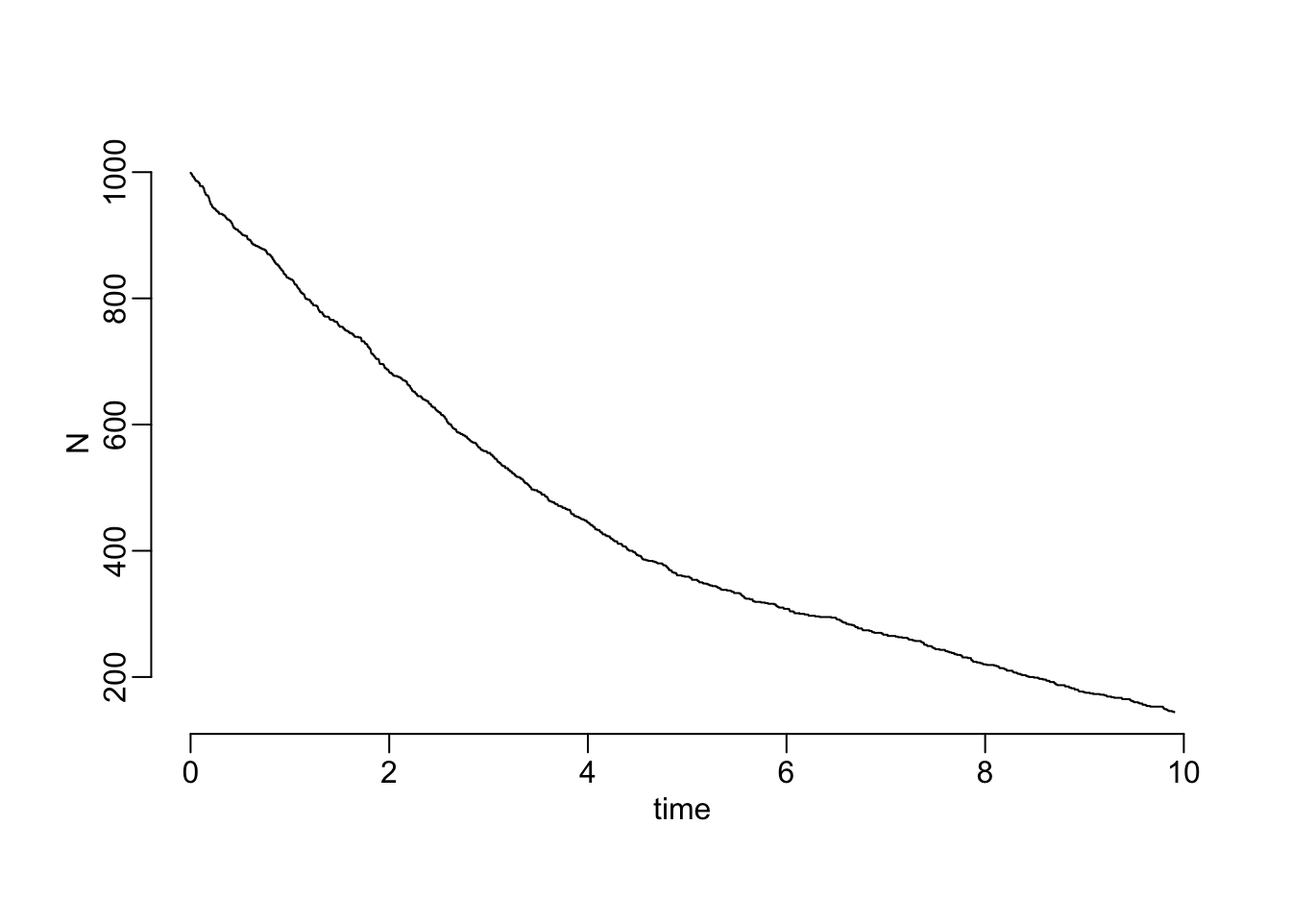
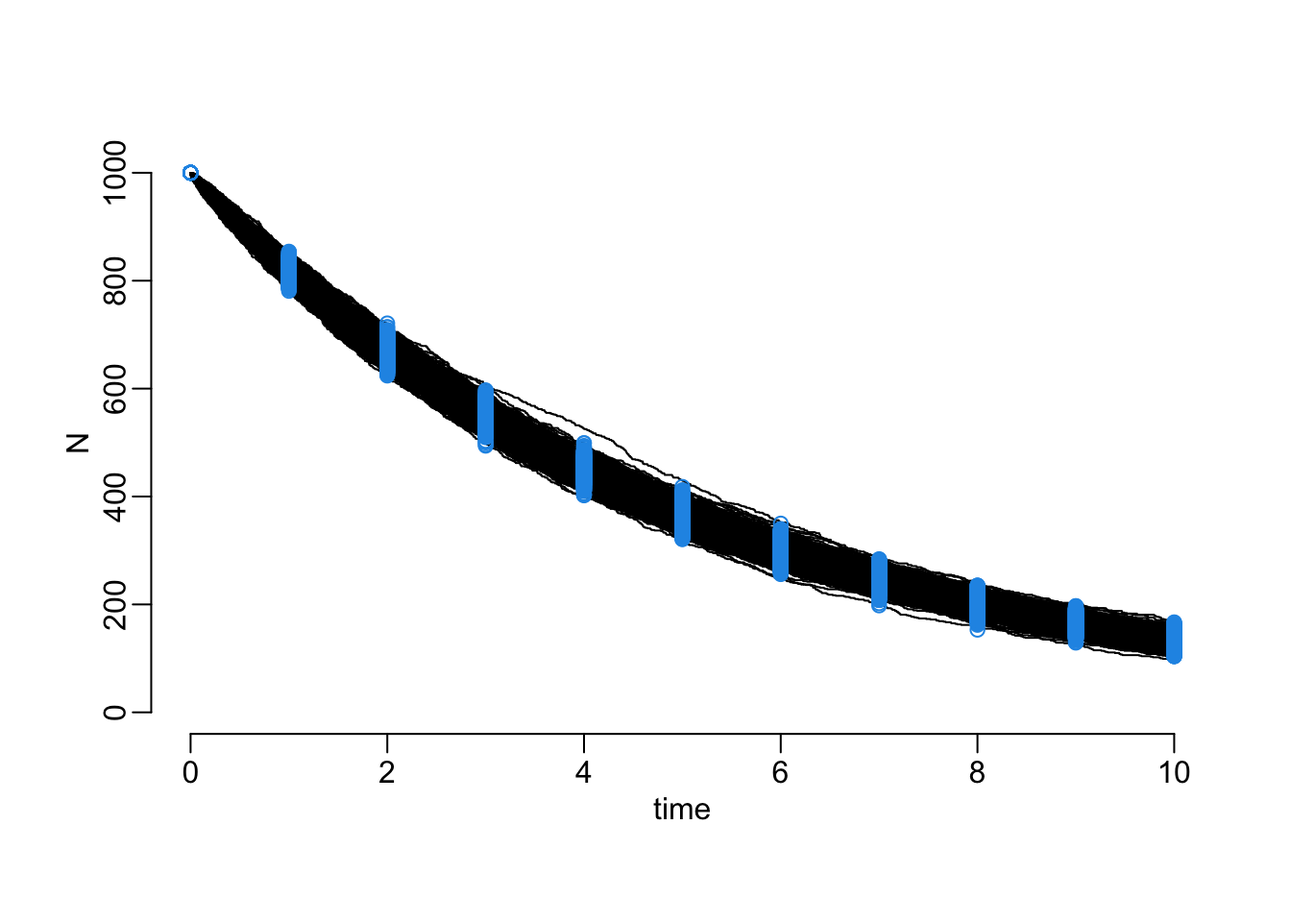
Starting birth process

diff --git a/explorations 2.html b/explorations 2.html
@@ -153,21 +153,21 @@ window.Quarto = {
 <section id="continuous-time-deterministic" class="level3">
 <h3 class="anchored" data-anchor-id="continuous-time-deterministic">Continuous-time deterministic</h3>
 <p><span class="math display">\[
-\frac{dN}{dt} = -rN
+\frac{dN}{dt} = -r_cN
 \]</span></p>
 <div class="cell">
-<div class="sourceCode cell-code" id="cb6"><pre class="sourceCode r code-with-copy"><code class="sourceCode r"><span id="cb6-1"><a href="#cb6-1" aria-hidden="true" tabindex="-1"></a>continuous_deterministic <span class="ot">&lt;-</span> <span class="cf">function</span>(N0, r, times) {</span>
+<div class="sourceCode cell-code" id="cb6"><pre class="sourceCode r code-with-copy"><code class="sourceCode r"><span id="cb6-1"><a href="#cb6-1" aria-hidden="true" tabindex="-1"></a>continuous_deterministic <span class="ot">&lt;-</span> <span class="cf">function</span>(N0, rc, times) {</span>
 <span id="cb6-2"><a href="#cb6-2" aria-hidden="true" tabindex="-1"></a>  tibble<span class="sc">::</span><span class="fu">as_tibble</span>(</span>
 <span id="cb6-3"><a href="#cb6-3" aria-hidden="true" tabindex="-1"></a>    <span class="fu">as.data.frame</span>(</span>
 <span id="cb6-4"><a href="#cb6-4" aria-hidden="true" tabindex="-1"></a>      <span class="fu">ode</span>(<span class="fu">c</span>(<span class="at">N =</span> N0),</span>
 <span id="cb6-5"><a href="#cb6-5" aria-hidden="true" tabindex="-1"></a>          times,</span>
 <span id="cb6-6"><a href="#cb6-6" aria-hidden="true" tabindex="-1"></a>          <span class="cf">function</span>(time, variables, parameters) {</span>
 <span id="cb6-7"><a href="#cb6-7" aria-hidden="true" tabindex="-1"></a>            <span class="fu">with</span>(<span class="fu">as.list</span>(<span class="fu">c</span>(variables, parameters)), {</span>
-<span id="cb6-8"><a href="#cb6-8" aria-hidden="true" tabindex="-1"></a>              dN <span class="ot">&lt;-</span> r <span class="sc">*</span> N</span>
+<span id="cb6-8"><a href="#cb6-8" aria-hidden="true" tabindex="-1"></a>              dN <span class="ot">&lt;-</span> rc <span class="sc">*</span> N</span>
 <span id="cb6-9"><a href="#cb6-9" aria-hidden="true" tabindex="-1"></a>              <span class="fu">list</span>(dN)</span>
 <span id="cb6-10"><a href="#cb6-10" aria-hidden="true" tabindex="-1"></a>            })</span>
 <span id="cb6-11"><a href="#cb6-11" aria-hidden="true" tabindex="-1"></a>          },</span>
-<span id="cb6-12"><a href="#cb6-12" aria-hidden="true" tabindex="-1"></a>          <span class="fu">c</span>(<span class="at">r =</span> r))</span>
+<span id="cb6-12"><a href="#cb6-12" aria-hidden="true" tabindex="-1"></a>          <span class="fu">c</span>(<span class="at">rc =</span> rc))</span>
 <span id="cb6-13"><a href="#cb6-13" aria-hidden="true" tabindex="-1"></a>    )</span>
 <span id="cb6-14"><a href="#cb6-14" aria-hidden="true" tabindex="-1"></a>  )</span>
 <span id="cb6-15"><a href="#cb6-15" aria-hidden="true" tabindex="-1"></a>}</span></code><button title="Copy to Clipboard" class="code-copy-button"><i class="bi"></i></button></pre></div>
@@ -187,26 +187,31 @@ window.Quarto = {
 <section id="discrete-time-deterministic" class="level3">
 <h3 class="anchored" data-anchor-id="discrete-time-deterministic">Discrete-time deterministic</h3>
 <p><span class="math display">\[
+N_{t+1} = r_d N_t
+\]</span></p>
+<p>with</p>
+<p><span class="math display">\[
 r_d = e^{r_c \Delta t}
 \]</span></p>
+<p><span class="math inline">\(\Delta t\)</span> being the duration of the time step.</p>
 <div class="cell">
-<div class="sourceCode cell-code" id="cb8"><pre class="sourceCode r code-with-copy"><code class="sourceCode r"><span id="cb8-1"><a href="#cb8-1" aria-hidden="true" tabindex="-1"></a>discrete_deterministic <span class="ot">&lt;-</span> <span class="cf">function</span>(N0, r, times) {</span>
-<span id="cb8-2"><a href="#cb8-2" aria-hidden="true" tabindex="-1"></a>  r <span class="ot">&lt;-</span> <span class="fu">exp</span>(r <span class="sc">*</span> <span class="fu">mean</span>(<span class="fu">diff</span>(times)))</span>
+<div class="sourceCode cell-code" id="cb8"><pre class="sourceCode r code-with-copy"><code class="sourceCode r"><span id="cb8-1"><a href="#cb8-1" aria-hidden="true" tabindex="-1"></a>discrete_deterministic <span class="ot">&lt;-</span> <span class="cf">function</span>(N0, rc, times) {</span>
+<span id="cb8-2"><a href="#cb8-2" aria-hidden="true" tabindex="-1"></a>  rd <span class="ot">&lt;-</span> <span class="fu">exp</span>(rc <span class="sc">*</span> <span class="fu">mean</span>(<span class="fu">diff</span>(times)))</span>
 <span id="cb8-3"><a href="#cb8-3" aria-hidden="true" tabindex="-1"></a>  N <span class="ot">&lt;-</span> N0</span>
 <span id="cb8-4"><a href="#cb8-4" aria-hidden="true" tabindex="-1"></a>  <span class="cf">for</span> (i <span class="cf">in</span> times[<span class="sc">-</span><span class="dv">1</span>]) {</span>
-<span id="cb8-5"><a href="#cb8-5" aria-hidden="true" tabindex="-1"></a>    N <span class="ot">&lt;-</span> <span class="fu">c</span>(N, <span class="fu">tail</span>(N, <span class="dv">1</span>) <span class="sc">*</span> r)</span>
+<span id="cb8-5"><a href="#cb8-5" aria-hidden="true" tabindex="-1"></a>    N <span class="ot">&lt;-</span> <span class="fu">c</span>(N, <span class="fu">tail</span>(N, <span class="dv">1</span>) <span class="sc">*</span> rd)</span>
 <span id="cb8-6"><a href="#cb8-6" aria-hidden="true" tabindex="-1"></a>  }</span>
 <span id="cb8-7"><a href="#cb8-7" aria-hidden="true" tabindex="-1"></a>  tibble<span class="sc">::</span><span class="fu">tibble</span>(<span class="at">time =</span> times, <span class="at">N =</span> N)</span>
 <span id="cb8-8"><a href="#cb8-8" aria-hidden="true" tabindex="-1"></a>}</span></code><button title="Copy to Clipboard" class="code-copy-button"><i class="bi"></i></button></pre></div>
 </div>
 <div class="cell">
 <div class="sourceCode cell-code" id="cb9"><pre class="sourceCode r code-with-copy"><code class="sourceCode r"><span id="cb9-1"><a href="#cb9-1" aria-hidden="true" tabindex="-1"></a>compare_continuous_discrete_deterministic <span class="ot">&lt;-</span> <span class="cf">function</span>(</span>
-<span id="cb9-2"><a href="#cb9-2" aria-hidden="true" tabindex="-1"></a>    step, <span class="at">N0 =</span> <span class="dv">1000</span>, <span class="at">r =</span> <span class="sc">-</span>.<span class="dv">2</span>, <span class="at">tmin =</span> <span class="dv">0</span>, <span class="at">tmax =</span> <span class="dv">10</span>) {</span>
+<span id="cb9-2"><a href="#cb9-2" aria-hidden="true" tabindex="-1"></a>    step, <span class="at">N0 =</span> <span class="dv">1000</span>, <span class="at">rc =</span> <span class="sc">-</span>.<span class="dv">2</span>, <span class="at">tmin =</span> <span class="dv">0</span>, <span class="at">tmax =</span> <span class="dv">10</span>) {</span>
 <span id="cb9-3"><a href="#cb9-3" aria-hidden="true" tabindex="-1"></a>  </span>
-<span id="cb9-4"><a href="#cb9-4" aria-hidden="true" tabindex="-1"></a>  <span class="fu">continuous_deterministic</span>(N0, r, <span class="fu">seq</span>(tmin, tmax, step)) <span class="sc">|&gt;</span> </span>
+<span id="cb9-4"><a href="#cb9-4" aria-hidden="true" tabindex="-1"></a>  <span class="fu">continuous_deterministic</span>(N0, rc, <span class="fu">seq</span>(tmin, tmax, step)) <span class="sc">|&gt;</span> </span>
 <span id="cb9-5"><a href="#cb9-5" aria-hidden="true" tabindex="-1"></a>    <span class="fu">with</span>(<span class="fu">plot2</span>(time, N, <span class="at">type =</span> <span class="st">"l"</span>))</span>
 <span id="cb9-6"><a href="#cb9-6" aria-hidden="true" tabindex="-1"></a>  </span>
-<span id="cb9-7"><a href="#cb9-7" aria-hidden="true" tabindex="-1"></a>  <span class="fu">discrete_deterministic</span>(N0, r, <span class="fu">seq</span>(tmin, tmax, step)) <span class="sc">|&gt;</span> </span>
+<span id="cb9-7"><a href="#cb9-7" aria-hidden="true" tabindex="-1"></a>  <span class="fu">discrete_deterministic</span>(N0, rc, <span class="fu">seq</span>(tmin, tmax, step)) <span class="sc">|&gt;</span> </span>
 <span id="cb9-8"><a href="#cb9-8" aria-hidden="true" tabindex="-1"></a>    <span class="fu">with</span>(<span class="fu">points</span>(time, N, <span class="at">lwd =</span> <span class="dv">2</span>, <span class="at">col =</span> <span class="dv">2</span>))</span>
 <span id="cb9-9"><a href="#cb9-9" aria-hidden="true" tabindex="-1"></a>}</span></code><button title="Copy to Clipboard" class="code-copy-button"><i class="bi"></i></button></pre></div>
 </div>
@@ -232,12 +237,12 @@ r_d = e^{r_c \Delta t}
 <section id="discrete-time-probabilistic" class="level3">
 <h3 class="anchored" data-anchor-id="discrete-time-probabilistic">Discrete-time probabilistic</h3>
 <p><span class="math display">\[
-p = 1 - e^{r\Delta t}
+p = 1 - e^{r_c\Delta t}
 \]</span></p>
 <div class="cell">
-<div class="sourceCode cell-code" id="cb12"><pre class="sourceCode r code-with-copy"><code class="sourceCode r"><span id="cb12-1"><a href="#cb12-1" aria-hidden="true" tabindex="-1"></a>discrete_probabilistic <span class="ot">&lt;-</span> <span class="cf">function</span>(N0, r, times) {</span>
+<div class="sourceCode cell-code" id="cb12"><pre class="sourceCode r code-with-copy"><code class="sourceCode r"><span id="cb12-1"><a href="#cb12-1" aria-hidden="true" tabindex="-1"></a>discrete_probabilistic <span class="ot">&lt;-</span> <span class="cf">function</span>(N0, rc, times) {</span>
 <span id="cb12-2"><a href="#cb12-2" aria-hidden="true" tabindex="-1"></a>  Delta_t <span class="ot">&lt;-</span> <span class="fu">mean</span>(<span class="fu">diff</span>(times))</span>
-<span id="cb12-3"><a href="#cb12-3" aria-hidden="true" tabindex="-1"></a>  p <span class="ot">&lt;-</span> <span class="dv">1</span> <span class="sc">-</span> <span class="fu">exp</span>(r <span class="sc">*</span> Delta_t)</span>
+<span id="cb12-3"><a href="#cb12-3" aria-hidden="true" tabindex="-1"></a>  p <span class="ot">&lt;-</span> <span class="dv">1</span> <span class="sc">-</span> <span class="fu">exp</span>(rc <span class="sc">*</span> Delta_t)</span>
 <span id="cb12-4"><a href="#cb12-4" aria-hidden="true" tabindex="-1"></a>  N <span class="ot">&lt;-</span> N0</span>
 <span id="cb12-5"><a href="#cb12-5" aria-hidden="true" tabindex="-1"></a>  <span class="cf">for</span> (i <span class="cf">in</span> times[<span class="sc">-</span><span class="dv">1</span>]) {</span>
 <span id="cb12-6"><a href="#cb12-6" aria-hidden="true" tabindex="-1"></a>    N <span class="ot">&lt;-</span> <span class="fu">c</span>(N, <span class="fu">tail</span>(N, <span class="dv">1</span>) <span class="sc">*</span> (<span class="dv">1</span> <span class="sc">-</span> p))</span>
@@ -247,10 +252,10 @@ p = 1 - e^{r\Delta t}
 </div>
 <div class="cell">
 <div class="sourceCode cell-code" id="cb13"><pre class="sourceCode r code-with-copy"><code class="sourceCode r"><span id="cb13-1"><a href="#cb13-1" aria-hidden="true" tabindex="-1"></a>compare_discrete_deterministic_probabilistic <span class="ot">&lt;-</span> <span class="cf">function</span>(</span>
-<span id="cb13-2"><a href="#cb13-2" aria-hidden="true" tabindex="-1"></a>    step, <span class="at">N0 =</span> <span class="dv">1000</span>, <span class="at">r =</span> <span class="sc">-</span>.<span class="dv">2</span>, <span class="at">tmin =</span> <span class="dv">0</span>, <span class="at">tmax =</span> <span class="dv">10</span>) {</span>
+<span id="cb13-2"><a href="#cb13-2" aria-hidden="true" tabindex="-1"></a>    step, <span class="at">N0 =</span> <span class="dv">1000</span>, <span class="at">rc =</span> <span class="sc">-</span>.<span class="dv">2</span>, <span class="at">tmin =</span> <span class="dv">0</span>, <span class="at">tmax =</span> <span class="dv">10</span>) {</span>
 <span id="cb13-3"><a href="#cb13-3" aria-hidden="true" tabindex="-1"></a>  </span>
-<span id="cb13-4"><a href="#cb13-4" aria-hidden="true" tabindex="-1"></a>  det <span class="ot">&lt;-</span> <span class="fu">discrete_deterministic</span>(N0, r, <span class="fu">seq</span>(tmin, tmax, step))</span>
-<span id="cb13-5"><a href="#cb13-5" aria-hidden="true" tabindex="-1"></a>  prb <span class="ot">&lt;-</span> <span class="fu">discrete_probabilistic</span>(N0, r, <span class="fu">seq</span>(tmin, tmax, step))</span>
+<span id="cb13-4"><a href="#cb13-4" aria-hidden="true" tabindex="-1"></a>  det <span class="ot">&lt;-</span> <span class="fu">discrete_deterministic</span>(N0, rc, <span class="fu">seq</span>(tmin, tmax, step))</span>
+<span id="cb13-5"><a href="#cb13-5" aria-hidden="true" tabindex="-1"></a>  prb <span class="ot">&lt;-</span> <span class="fu">discrete_probabilistic</span>(N0, rc, <span class="fu">seq</span>(tmin, tmax, step))</span>
 <span id="cb13-6"><a href="#cb13-6" aria-hidden="true" tabindex="-1"></a>  <span class="fu">plot</span>(det<span class="sc">$</span>N, prb<span class="sc">$</span>N, <span class="at">col =</span> <span class="dv">4</span>, <span class="at">lwd =</span> <span class="dv">2</span>)</span>
 <span id="cb13-7"><a href="#cb13-7" aria-hidden="true" tabindex="-1"></a>  <span class="fu">abline</span>(<span class="dv">0</span>, <span class="dv">1</span>)</span>
 <span id="cb13-8"><a href="#cb13-8" aria-hidden="true" tabindex="-1"></a>}</span></code><button title="Copy to Clipboard" class="code-copy-button"><i class="bi"></i></button></pre></div>
@@ -277,9 +282,9 @@ p = 1 - e^{r\Delta t}
 <section id="discrete-time-stochastic" class="level3">
 <h3 class="anchored" data-anchor-id="discrete-time-stochastic">Discrete-time stochastic</h3>
 <div class="cell">
-<div class="sourceCode cell-code" id="cb16"><pre class="sourceCode r code-with-copy"><code class="sourceCode r"><span id="cb16-1"><a href="#cb16-1" aria-hidden="true" tabindex="-1"></a>discrete_stochastic <span class="ot">&lt;-</span> <span class="cf">function</span>(N0, r, times) {</span>
+<div class="sourceCode cell-code" id="cb16"><pre class="sourceCode r code-with-copy"><code class="sourceCode r"><span id="cb16-1"><a href="#cb16-1" aria-hidden="true" tabindex="-1"></a>discrete_stochastic <span class="ot">&lt;-</span> <span class="cf">function</span>(N0, rc, times) {</span>
 <span id="cb16-2"><a href="#cb16-2" aria-hidden="true" tabindex="-1"></a>  Delta_t <span class="ot">&lt;-</span> <span class="fu">mean</span>(<span class="fu">diff</span>(times))</span>
-<span id="cb16-3"><a href="#cb16-3" aria-hidden="true" tabindex="-1"></a>  p <span class="ot">&lt;-</span> <span class="dv">1</span> <span class="sc">-</span> <span class="fu">exp</span>(r <span class="sc">*</span> Delta_t)</span>
+<span id="cb16-3"><a href="#cb16-3" aria-hidden="true" tabindex="-1"></a>  p <span class="ot">&lt;-</span> <span class="dv">1</span> <span class="sc">-</span> <span class="fu">exp</span>(rc <span class="sc">*</span> Delta_t)</span>
 <span id="cb16-4"><a href="#cb16-4" aria-hidden="true" tabindex="-1"></a>  N <span class="ot">&lt;-</span> N0</span>
 <span id="cb16-5"><a href="#cb16-5" aria-hidden="true" tabindex="-1"></a>  <span class="cf">for</span> (i <span class="cf">in</span> times[<span class="sc">-</span><span class="dv">1</span>]) {</span>
 <span id="cb16-6"><a href="#cb16-6" aria-hidden="true" tabindex="-1"></a>    tailN <span class="ot">&lt;-</span> <span class="fu">tail</span>(N, <span class="dv">1</span>)</span>
@@ -289,11 +294,11 @@ p = 1 - e^{r\Delta t}
 <span id="cb16-10"><a href="#cb16-10" aria-hidden="true" tabindex="-1"></a>}</span></code><button title="Copy to Clipboard" class="code-copy-button"><i class="bi"></i></button></pre></div>
 </div>
 <div class="cell">
-<div class="sourceCode cell-code" id="cb17"><pre class="sourceCode r code-with-copy"><code class="sourceCode r"><span id="cb17-1"><a href="#cb17-1" aria-hidden="true" tabindex="-1"></a>out <span class="ot">&lt;-</span> <span class="fu">replicate2</span>(<span class="dv">1000</span>, <span class="fu">discrete_stochastic</span>(<span class="dv">1000</span>, <span class="sc">-</span>.<span class="dv">2</span>, <span class="fu">seq</span>(<span class="dv">0</span>, <span class="dv">10</span>, <span class="dv">1</span>)))</span></code><button title="Copy to Clipboard" class="code-copy-button"><i class="bi"></i></button></pre></div>
+<div class="sourceCode cell-code" id="cb17"><pre class="sourceCode r code-with-copy"><code class="sourceCode r"><span id="cb17-1"><a href="#cb17-1" aria-hidden="true" tabindex="-1"></a>out_d <span class="ot">&lt;-</span> <span class="fu">replicate2</span>(<span class="dv">1000</span>, <span class="fu">discrete_stochastic</span>(<span class="dv">1000</span>, <span class="sc">-</span>.<span class="dv">2</span>, <span class="fu">seq</span>(<span class="dv">0</span>, <span class="dv">10</span>, <span class="dv">1</span>)))</span></code><button title="Copy to Clipboard" class="code-copy-button"><i class="bi"></i></button></pre></div>
 </div>
 <div class="cell">
 <div class="sourceCode cell-code" id="cb18"><pre class="sourceCode r code-with-copy"><code class="sourceCode r"><span id="cb18-1"><a href="#cb18-1" aria-hidden="true" tabindex="-1"></a><span class="fu">plot</span>(<span class="cn">NA</span>, <span class="at">xlab =</span> <span class="st">"time"</span>, <span class="at">ylab =</span> <span class="st">"N"</span>, <span class="at">xlim =</span> <span class="fu">c</span>(<span class="dv">0</span>, <span class="dv">10</span>), <span class="at">ylim =</span> <span class="fu">c</span>(<span class="dv">0</span>, <span class="dv">1000</span>))</span>
-<span id="cb18-2"><a href="#cb18-2" aria-hidden="true" tabindex="-1"></a><span class="fu">walk</span>(out, <span class="sc">~</span> <span class="fu">with</span>(.x, <span class="fu">points</span>(time, N, <span class="at">type =</span> <span class="st">"o"</span>, <span class="at">col =</span> <span class="fu">adjustcolor</span>(<span class="dv">4</span>, .<span class="dv">01</span>))))</span></code><button title="Copy to Clipboard" class="code-copy-button"><i class="bi"></i></button></pre></div>
+<span id="cb18-2"><a href="#cb18-2" aria-hidden="true" tabindex="-1"></a><span class="fu">walk</span>(out_d, <span class="sc">~</span> <span class="fu">with</span>(.x, <span class="fu">points</span>(time, N, <span class="at">type =</span> <span class="st">"o"</span>, <span class="at">col =</span> <span class="fu">adjustcolor</span>(<span class="dv">4</span>, .<span class="dv">01</span>))))</span></code><button title="Copy to Clipboard" class="code-copy-button"><i class="bi"></i></button></pre></div>
 <div class="cell-output-display">
 <div>
 <figure class="figure">
@@ -306,12 +311,12 @@ p = 1 - e^{r\Delta t}
 <section id="continuous-time-stochastic" class="level3">
 <h3 class="anchored" data-anchor-id="continuous-time-stochastic">Continuous-time stochastic</h3>
 <div class="cell">
-<div class="sourceCode cell-code" id="cb19"><pre class="sourceCode r code-with-copy"><code class="sourceCode r"><span id="cb19-1"><a href="#cb19-1" aria-hidden="true" tabindex="-1"></a>continuous_stochastic <span class="ot">&lt;-</span> <span class="cf">function</span>(N0, r, times) {</span>
+<div class="sourceCode cell-code" id="cb19"><pre class="sourceCode r code-with-copy"><code class="sourceCode r"><span id="cb19-1"><a href="#cb19-1" aria-hidden="true" tabindex="-1"></a>continuous_stochastic <span class="ot">&lt;-</span> <span class="cf">function</span>(N0, rc, times) {</span>
 <span id="cb19-2"><a href="#cb19-2" aria-hidden="true" tabindex="-1"></a>  N <span class="ot">&lt;-</span> N0</span>
 <span id="cb19-3"><a href="#cb19-3" aria-hidden="true" tabindex="-1"></a>  tf <span class="ot">&lt;-</span> <span class="fu">max</span>(times)</span>
 <span id="cb19-4"><a href="#cb19-4" aria-hidden="true" tabindex="-1"></a>  times <span class="ot">&lt;-</span> <span class="fu">min</span>(times)</span>
 <span id="cb19-5"><a href="#cb19-5" aria-hidden="true" tabindex="-1"></a>  <span class="cf">while</span> (<span class="fu">tail</span>(times, <span class="dv">1</span>) <span class="sc">&lt;</span> tf <span class="sc">&amp;</span> N <span class="sc">&gt;</span> <span class="sc">-</span><span class="dv">1</span>) {</span>
-<span id="cb19-6"><a href="#cb19-6" aria-hidden="true" tabindex="-1"></a>    times <span class="ot">&lt;-</span> <span class="fu">c</span>(times, <span class="fu">tail</span>(times, <span class="dv">1</span>) <span class="sc">+</span> <span class="fu">rexp</span>(<span class="dv">1</span>, N <span class="sc">*</span> <span class="fu">abs</span>(r)))</span>
+<span id="cb19-6"><a href="#cb19-6" aria-hidden="true" tabindex="-1"></a>    times <span class="ot">&lt;-</span> <span class="fu">c</span>(times, <span class="fu">tail</span>(times, <span class="dv">1</span>) <span class="sc">+</span> <span class="fu">rexp</span>(<span class="dv">1</span>, N <span class="sc">*</span> <span class="fu">abs</span>(rc)))</span>
 <span id="cb19-7"><a href="#cb19-7" aria-hidden="true" tabindex="-1"></a>    N <span class="ot">&lt;-</span> N <span class="sc">-</span> <span class="dv">1</span></span>
 <span id="cb19-8"><a href="#cb19-8" aria-hidden="true" tabindex="-1"></a>  }</span>
 <span id="cb19-9"><a href="#cb19-9" aria-hidden="true" tabindex="-1"></a>  times <span class="ot">&lt;-</span> <span class="fu">head</span>(times, <span class="sc">-</span><span class="dv">1</span>)</span>
@@ -319,10 +324,25 @@ p = 1 - e^{r\Delta t}
 <span id="cb19-11"><a href="#cb19-11" aria-hidden="true" tabindex="-1"></a>}</span></code><button title="Copy to Clipboard" class="code-copy-button"><i class="bi"></i></button></pre></div>
 </div>
 <div class="cell">
-<div class="sourceCode cell-code" id="cb20"><pre class="sourceCode r code-with-copy"><code class="sourceCode r"><span id="cb20-1"><a href="#cb20-1" aria-hidden="true" tabindex="-1"></a>out <span class="ot">&lt;-</span> <span class="fu">continuous_stochastic</span>(<span class="dv">1000</span>, <span class="sc">-</span>.<span class="dv">2</span>, <span class="dv">0</span><span class="sc">:</span><span class="dv">10</span>)</span></code><button title="Copy to Clipboard" class="code-copy-button"><i class="bi"></i></button></pre></div>
+<div class="sourceCode cell-code" id="cb20"><pre class="sourceCode r code-with-copy"><code class="sourceCode r"><span id="cb20-1"><a href="#cb20-1" aria-hidden="true" tabindex="-1"></a>out_c <span class="ot">&lt;-</span> <span class="fu">continuous_stochastic</span>(<span class="dv">1000</span>, <span class="sc">-</span>.<span class="dv">2</span>, <span class="dv">0</span><span class="sc">:</span><span class="dv">10</span>)</span></code><button title="Copy to Clipboard" class="code-copy-button"><i class="bi"></i></button></pre></div>
 </div>
 <div class="cell">
-<div class="sourceCode cell-code" id="cb21"><pre class="sourceCode r code-with-copy"><code class="sourceCode r"><span id="cb21-1"><a href="#cb21-1" aria-hidden="true" tabindex="-1"></a><span class="fu">with</span>(out, <span class="fu">plot</span>(time, N, <span class="at">type =</span> <span class="st">"s"</span>))</span></code><button title="Copy to Clipboard" class="code-copy-button"><i class="bi"></i></button></pre></div>
+<div class="sourceCode cell-code" id="cb21"><pre class="sourceCode r code-with-copy"><code class="sourceCode r"><span id="cb21-1"><a href="#cb21-1" aria-hidden="true" tabindex="-1"></a><span class="fu">with</span>(out_c, <span class="fu">plot</span>(time, N, <span class="at">type =</span> <span class="st">"s"</span>))</span></code><button title="Copy to Clipboard" class="code-copy-button"><i class="bi"></i></button></pre></div>
+<div class="cell-output-display">
+<div>
+<figure class="figure">
+<p><img src="explorations-2_files/figure-html/unnamed-chunk-18-1.png" class="img-fluid figure-img" width="672"></p>
+</figure>
+</div>
+</div>
+</div>
+<div class="cell">
+<div class="sourceCode cell-code" id="cb22"><pre class="sourceCode r code-with-copy"><code class="sourceCode r"><span id="cb22-1"><a href="#cb22-1" aria-hidden="true" tabindex="-1"></a>out_c <span class="ot">&lt;-</span> <span class="fu">replicate2</span>(<span class="dv">1000</span>, <span class="fu">continuous_stochastic</span>(<span class="dv">1000</span>, .<span class="dv">2</span>, <span class="dv">0</span><span class="sc">:</span><span class="dv">10</span>))</span></code><button title="Copy to Clipboard" class="code-copy-button"><i class="bi"></i></button></pre></div>
+</div>
+<div class="cell">
+<div class="sourceCode cell-code" id="cb23"><pre class="sourceCode r code-with-copy"><code class="sourceCode r"><span id="cb23-1"><a href="#cb23-1" aria-hidden="true" tabindex="-1"></a><span class="fu">plot</span>(<span class="cn">NA</span>, <span class="at">xlab =</span> <span class="st">"time"</span>, <span class="at">ylab =</span> <span class="st">"N"</span>, <span class="at">xlim =</span> <span class="fu">c</span>(<span class="dv">0</span>, <span class="dv">10</span>), <span class="at">ylim =</span> <span class="fu">c</span>(<span class="dv">0</span>, <span class="dv">1000</span>))</span>
+<span id="cb23-2"><a href="#cb23-2" aria-hidden="true" tabindex="-1"></a><span class="fu">walk</span>(out_c, <span class="sc">~</span> <span class="fu">with</span>(.x, <span class="fu">points</span>(time, N, <span class="at">type =</span> <span class="st">"s"</span>)))</span>
+<span id="cb23-3"><a href="#cb23-3" aria-hidden="true" tabindex="-1"></a><span class="fu">walk</span>(out_d, <span class="sc">~</span> <span class="fu">with</span>(.x, <span class="fu">points</span>(time, N, <span class="at">col =</span> <span class="dv">4</span>)))</span></code><button title="Copy to Clipboard" class="code-copy-button"><i class="bi"></i></button></pre></div>
 <div class="cell-output-display">
 <div>
 <figure class="figure">
@@ -331,12 +351,83 @@ p = 1 - e^{r\Delta t}
 </div>
 </div>
 </div>
+</section>
+</section>
+<section id="birth-process" class="level2">
+<h2 class="anchored" data-anchor-id="birth-process">Birth process</h2>
+<section id="continuous-time-deterministic-1" class="level3">
+<h3 class="anchored" data-anchor-id="continuous-time-deterministic-1">Continuous-time deterministic</h3>
 <div class="cell">
-<div class="sourceCode cell-code" id="cb22"><pre class="sourceCode r code-with-copy"><code class="sourceCode r"><span id="cb22-1"><a href="#cb22-1" aria-hidden="true" tabindex="-1"></a>out <span class="ot">&lt;-</span> <span class="fu">replicate2</span>(<span class="dv">1000</span>, <span class="fu">continuous_stochastic</span>(<span class="dv">1000</span>, .<span class="dv">2</span>, <span class="dv">0</span><span class="sc">:</span><span class="dv">10</span>))</span></code><button title="Copy to Clipboard" class="code-copy-button"><i class="bi"></i></button></pre></div>
+<div class="sourceCode cell-code" id="cb24"><pre class="sourceCode r code-with-copy"><code class="sourceCode r"><span id="cb24-1"><a href="#cb24-1" aria-hidden="true" tabindex="-1"></a><span class="fu">continuous_deterministic</span>(<span class="dv">1000</span>, .<span class="dv">2</span>, <span class="fu">seq</span>(<span class="dv">0</span>, <span class="dv">10</span>, .<span class="dv">1</span>)) <span class="sc">|&gt;</span> </span>
+<span id="cb24-2"><a href="#cb24-2" aria-hidden="true" tabindex="-1"></a>  <span class="fu">with</span>(<span class="fu">plot2</span>(time, N, <span class="at">type =</span> <span class="st">"l"</span>))</span></code><button title="Copy to Clipboard" class="code-copy-button"><i class="bi"></i></button></pre></div>
+<div class="cell-output-display">
+<div>
+<figure class="figure">
+<p><img src="explorations-2_files/figure-html/unnamed-chunk-21-1.png" class="img-fluid figure-img" width="672"></p>
+</figure>
+</div>
+</div>
+</div>
+</section>
+<section id="discrete-time-deterministic-1" class="level3">
+<h3 class="anchored" data-anchor-id="discrete-time-deterministic-1">Discrete-time deterministic</h3>
+<div class="cell">
+<div class="sourceCode cell-code" id="cb25"><pre class="sourceCode r code-with-copy"><code class="sourceCode r"><span id="cb25-1"><a href="#cb25-1" aria-hidden="true" tabindex="-1"></a><span class="fu">compare_continuous_discrete_deterministic</span>(.<span class="dv">1</span>, <span class="at">rc =</span> .<span class="dv">2</span>)</span></code><button title="Copy to Clipboard" class="code-copy-button"><i class="bi"></i></button></pre></div>
+<div class="cell-output-display">
+<div>
+<figure class="figure">
+<p><img src="explorations-2_files/figure-html/unnamed-chunk-22-1.png" class="img-fluid figure-img" width="672"></p>
+</figure>
+</div>
+</div>
 </div>
 <div class="cell">
-<div class="sourceCode cell-code" id="cb23"><pre class="sourceCode r code-with-copy"><code class="sourceCode r"><span id="cb23-1"><a href="#cb23-1" aria-hidden="true" tabindex="-1"></a><span class="fu">plot</span>(<span class="cn">NA</span>, <span class="at">xlab =</span> <span class="st">"time"</span>, <span class="at">ylab =</span> <span class="st">"N"</span>, <span class="at">xlim =</span> <span class="fu">c</span>(<span class="dv">0</span>, <span class="dv">10</span>), <span class="at">ylim =</span> <span class="fu">c</span>(<span class="dv">0</span>, <span class="dv">1000</span>))</span>
-<span id="cb23-2"><a href="#cb23-2" aria-hidden="true" tabindex="-1"></a><span class="fu">walk</span>(out, <span class="sc">~</span> <span class="fu">with</span>(.x, <span class="fu">points</span>(time, N, <span class="at">type =</span> <span class="st">"s"</span>, <span class="at">col =</span> <span class="fu">adjustcolor</span>(<span class="dv">4</span>, .<span class="dv">01</span>))))</span></code><button title="Copy to Clipboard" class="code-copy-button"><i class="bi"></i></button></pre></div>
+<div class="sourceCode cell-code" id="cb26"><pre class="sourceCode r code-with-copy"><code class="sourceCode r"><span id="cb26-1"><a href="#cb26-1" aria-hidden="true" tabindex="-1"></a><span class="fu">compare_continuous_discrete_deterministic</span>(<span class="dv">1</span>, <span class="at">rc =</span> .<span class="dv">2</span>)</span></code><button title="Copy to Clipboard" class="code-copy-button"><i class="bi"></i></button></pre></div>
+<div class="cell-output-display">
+<div>
+<figure class="figure">
+<p><img src="explorations-2_files/figure-html/unnamed-chunk-23-1.png" class="img-fluid figure-img" width="672"></p>
+</figure>
+</div>
+</div>
+</div>
+</section>
+<section id="discrete-time-probabilistic-1" class="level3">
+<h3 class="anchored" data-anchor-id="discrete-time-probabilistic-1">Discrete-time probabilistic</h3>
+<div class="cell">
+<div class="sourceCode cell-code" id="cb27"><pre class="sourceCode r code-with-copy"><code class="sourceCode r"><span id="cb27-1"><a href="#cb27-1" aria-hidden="true" tabindex="-1"></a><span class="fu">compare_discrete_deterministic_probabilistic</span>(.<span class="dv">1</span>, <span class="at">rc =</span> .<span class="dv">2</span>)</span></code><button title="Copy to Clipboard" class="code-copy-button"><i class="bi"></i></button></pre></div>
+<div class="cell-output-display">
+<div>
+<figure class="figure">
+<p><img src="explorations-2_files/figure-html/unnamed-chunk-24-1.png" class="img-fluid figure-img" width="672"></p>
+</figure>
+</div>
+</div>
+</div>
+<div class="cell">
+<div class="sourceCode cell-code" id="cb28"><pre class="sourceCode r code-with-copy"><code class="sourceCode r"><span id="cb28-1"><a href="#cb28-1" aria-hidden="true" tabindex="-1"></a><span class="fu">compare_discrete_deterministic_probabilistic</span>(<span class="dv">1</span>, <span class="at">rc =</span> .<span class="dv">2</span>)</span></code><button title="Copy to Clipboard" class="code-copy-button"><i class="bi"></i></button></pre></div>
+<div class="cell-output-display">
+<div>
+<figure class="figure">
+<p><img src="explorations-2_files/figure-html/unnamed-chunk-25-1.png" class="img-fluid figure-img" width="672"></p>
+</figure>
+</div>
+</div>
+</div>
+</section>
+<section id="discrete-time-stochastic-1" class="level3">
+<h3 class="anchored" data-anchor-id="discrete-time-stochastic-1">Discrete-time stochastic</h3>
+<div class="cell">
+<div class="sourceCode cell-code" id="cb29"><pre class="sourceCode r code-with-copy"><code class="sourceCode r"><span id="cb29-1"><a href="#cb29-1" aria-hidden="true" tabindex="-1"></a>out_d <span class="ot">&lt;-</span> <span class="fu">replicate2</span>(<span class="dv">1000</span>, <span class="fu">discrete_stochastic</span>(<span class="dv">1000</span>, <span class="sc">-</span>.<span class="dv">2</span>, <span class="fu">seq</span>(<span class="dv">0</span>, <span class="dv">10</span>, <span class="dv">1</span>)))</span>
+<span id="cb29-2"><a href="#cb29-2" aria-hidden="true" tabindex="-1"></a><span class="fu">plot</span>(<span class="cn">NA</span>, <span class="at">xlab =</span> <span class="st">"time"</span>, <span class="at">ylab =</span> <span class="st">"N"</span>, <span class="at">xlim =</span> <span class="fu">c</span>(<span class="dv">0</span>, <span class="dv">10</span>), <span class="at">ylim =</span> <span class="fu">c</span>(<span class="dv">0</span>, <span class="dv">1000</span>))</span>
+<span id="cb29-3"><a href="#cb29-3" aria-hidden="true" tabindex="-1"></a><span class="fu">walk</span>(out_d, <span class="sc">~</span> <span class="fu">with</span>(.x, <span class="fu">points</span>(time, N, <span class="at">type =</span> <span class="st">"o"</span>, <span class="at">col =</span> <span class="fu">adjustcolor</span>(<span class="dv">4</span>, .<span class="dv">01</span>))))</span></code><button title="Copy to Clipboard" class="code-copy-button"><i class="bi"></i></button></pre></div>
+<div class="cell-output-display">
+<div>
+<figure class="figure">
+<p><img src="explorations-2_files/figure-html/unnamed-chunk-26-1.png" class="img-fluid figure-img" width="672"></p>
+</figure>
+</div>
+</div>
 </div>
 </section>
 </section>
